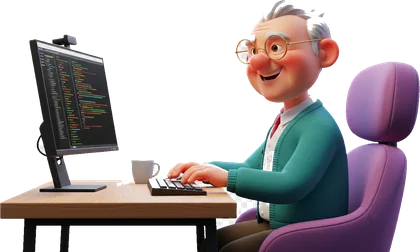
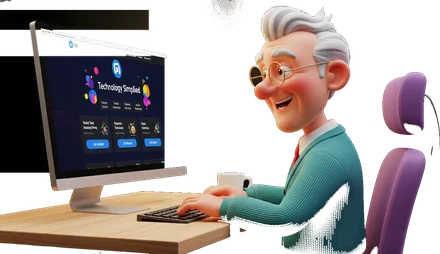
Last Homepage Experiment

diff --git a/src/app/page.tsx b/src/app/page.tsx
@@ -370,48 +370,41 @@ export default function Home() {
                   rotateZ: [0, 1.5, 0, -1.5, 0],
                 }}
                 transition={{ duration: 8, repeat: Infinity, ease: "easeInOut" }}
-                className="relative z-10 w-full max-w-[320px] sm:max-w-[380px] lg:max-w-[460px] xl:max-w-[540px]"
+                className="relative z-10 w-full max-w-[340px] sm:max-w-[420px] lg:max-w-[500px] xl:max-w-[580px]"
               >
                 {/* Shadow beneath */}
                 <div className="absolute -bottom-4 left-1/2 -translate-x-1/2 w-[60%] h-[16px] rounded-[50%] bg-violet-500/15 blur-xl" />
 
-                {/* Responsive image with picture element for WebP + PNG fallback */}
+                {/* Responsive image */}
                 <picture>
-                  <source
-                    media="(max-width: 640px)"
-                    srcSet="/hero-character-mobile.webp"
-                    type="image/webp"
-                  />
-                  <source
-                    media="(max-width: 640px)"
-                    srcSet="/hero-character-mobile.png"
-                    type="image/png"
-                  />
-                  <source
-                    media="(max-width: 1024px)"
-                    srcSet="/hero-character-tablet.webp"
-                    type="image/webp"
-                  />
-                  <source
-                    media="(max-width: 1024px)"
-                    srcSet="/hero-character-tablet.png"
-                    type="image/png"
-                  />
-                  <source
-                    srcSet="/hero-character-desktop.webp"
-                    type="image/webp"
-                  />
+                  <source media="(max-width: 640px)" srcSet="/hero-character-mobile.webp" type="image/webp" />
+                  <source media="(max-width: 640px)" srcSet="/hero-character-mobile.png" type="image/png" />
+                  <source media="(max-width: 1024px)" srcSet="/hero-character-tablet.webp" type="image/webp" />
+                  <source media="(max-width: 1024px)" srcSet="/hero-character-tablet.png" type="image/png" />
+                  <source srcSet="/hero-character-desktop.webp" type="image/webp" />
                   <Image
                     src="/hero-character-desktop.png"
-                    alt="Friendly elderly man learning technology at his computer — Setwise Digital"
-                    width={900}
-                    height={541}
+                    alt="Friendly elderly man browsing Setwise Digital Technology Simplified website on his computer"
+                    width={960}
+                    height={554}
                     priority
                     className="w-full h-auto select-none"
                     style={{ filter: "drop-shadow(0 20px 40px rgba(13,148,136,0.25)) drop-shadow(0 8px 16px rgba(99,102,241,0.15))" }}
                     draggable={false}
                   />
                 </picture>
+
+                {/* Animated pointing arrow toward Start Learning button */}
+                <motion.div
+                  className="absolute -left-4 bottom-[25%] lg:-left-8 hidden sm:flex items-center gap-2"
+                  animate={{ x: [0, -8, 0, -6, 0] }}
+                  transition={{ duration: 2, repeat: Infinity, ease: "easeInOut" }}
+                >
+                  <div className="flex items-center gap-1.5 px-3 py-1.5 bg-blue-500/20 backdrop-blur-sm border border-blue-400/30 rounded-full">
+                    <span className="text-blue-300 text-xs font-bold whitespace-nowrap">Try it here!</span>
+                    <ArrowRight size={14} className="text-blue-400 rotate-180" />
+                  </div>
+                </motion.div>
               </motion.div>
 
               {/* Sparkle particles */}
